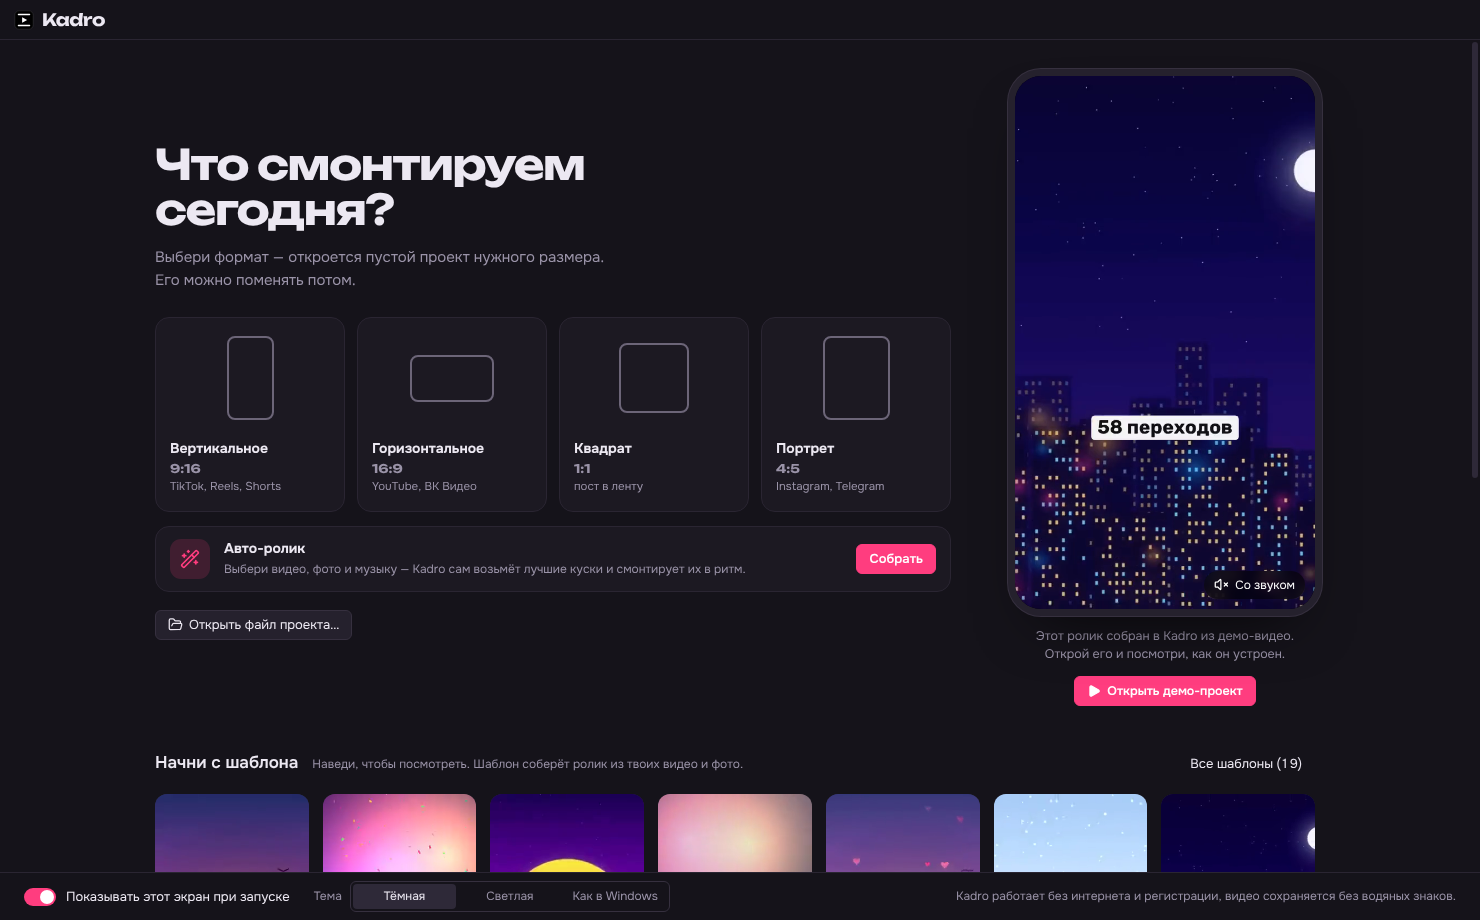
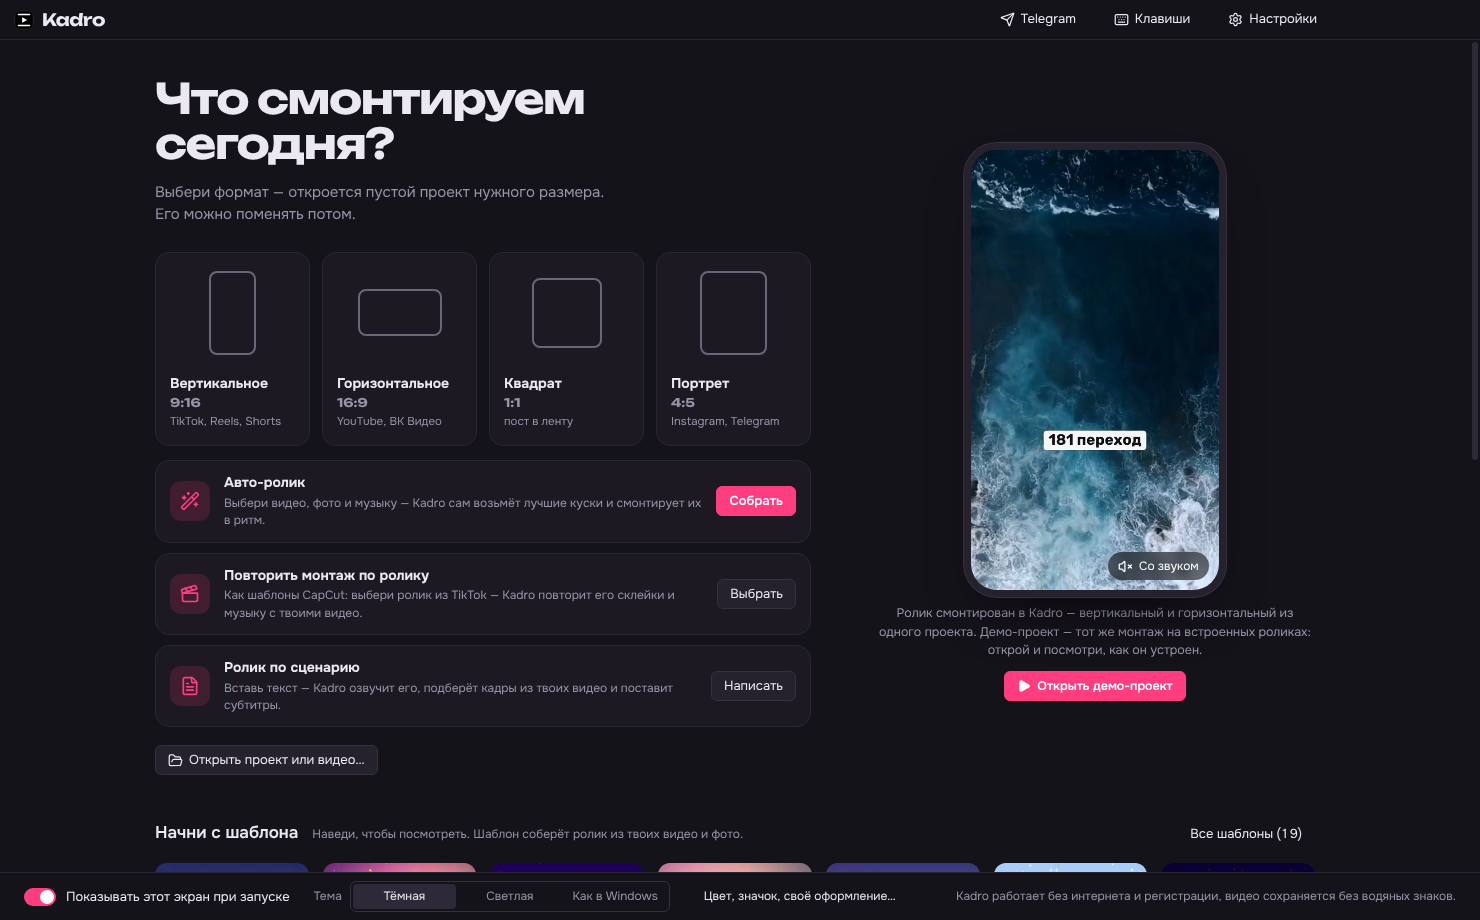
Страница на GitHub: гифка, обложка и снимки на настоящих кадрах, новый главный экран и миниатюры
Claude-Session: https://claude.ai/code/session_01SLdS9k2x7CNrH4zniVX1AR

diff --git a/scripts/banner.html b/scripts/banner.html
@@ -43,7 +43,7 @@
       <div class="word">Kadro</div>
     </div>
     <h1>Бесплатный видеоредактор с ИИ</h1>
-    <p class="sub">Авто-ролик под музыку, 58 переходов, 3D, перспектива, субтитры, удаление фона — всё работает на твоём компьютере. Без подписки и водяных знаков.</p>
+    <p class="sub">Авто-ролик под музыку, 181 переход, автосубтитры на видеокарте, удаление фона, 3D — всё работает на твоём компьютере. Без подписки и водяных знаков.</p>
   </div>
   <div class="foot">Открытый исходный код, автор <b>yaposspall</b></div>
 </body>

diff --git a/README.md b/README.md
@@ -30,7 +30,7 @@
 > программы там нет, а файлы `.ts` в нём — код на TypeScript, а не видео.
 
 <p align="center"><img src="docs/demo.gif" alt="Авто-ролик: выбрал видео, музыку и стиль — Kadro смонтировал ролик в ритм" width="100%"></p>
-<p align="center"><sub>Авто-ролик: выбираешь видео, музыку и стиль — Kadro сам берёт лучшие куски и монтирует их в ритм. «Ещё вариант» — другой монтаж из тех же файлов.</sub></p>
+<p align="center"><sub>Авто-ролик: выбираешь видео, музыку и стиль — Kadro сам берёт лучшие куски и монтирует их в ритм. «Ещё вариант» — другой монтаж из тех же файлов. Переходы оживают под курсором.</sub></p>
 
 ---
 
